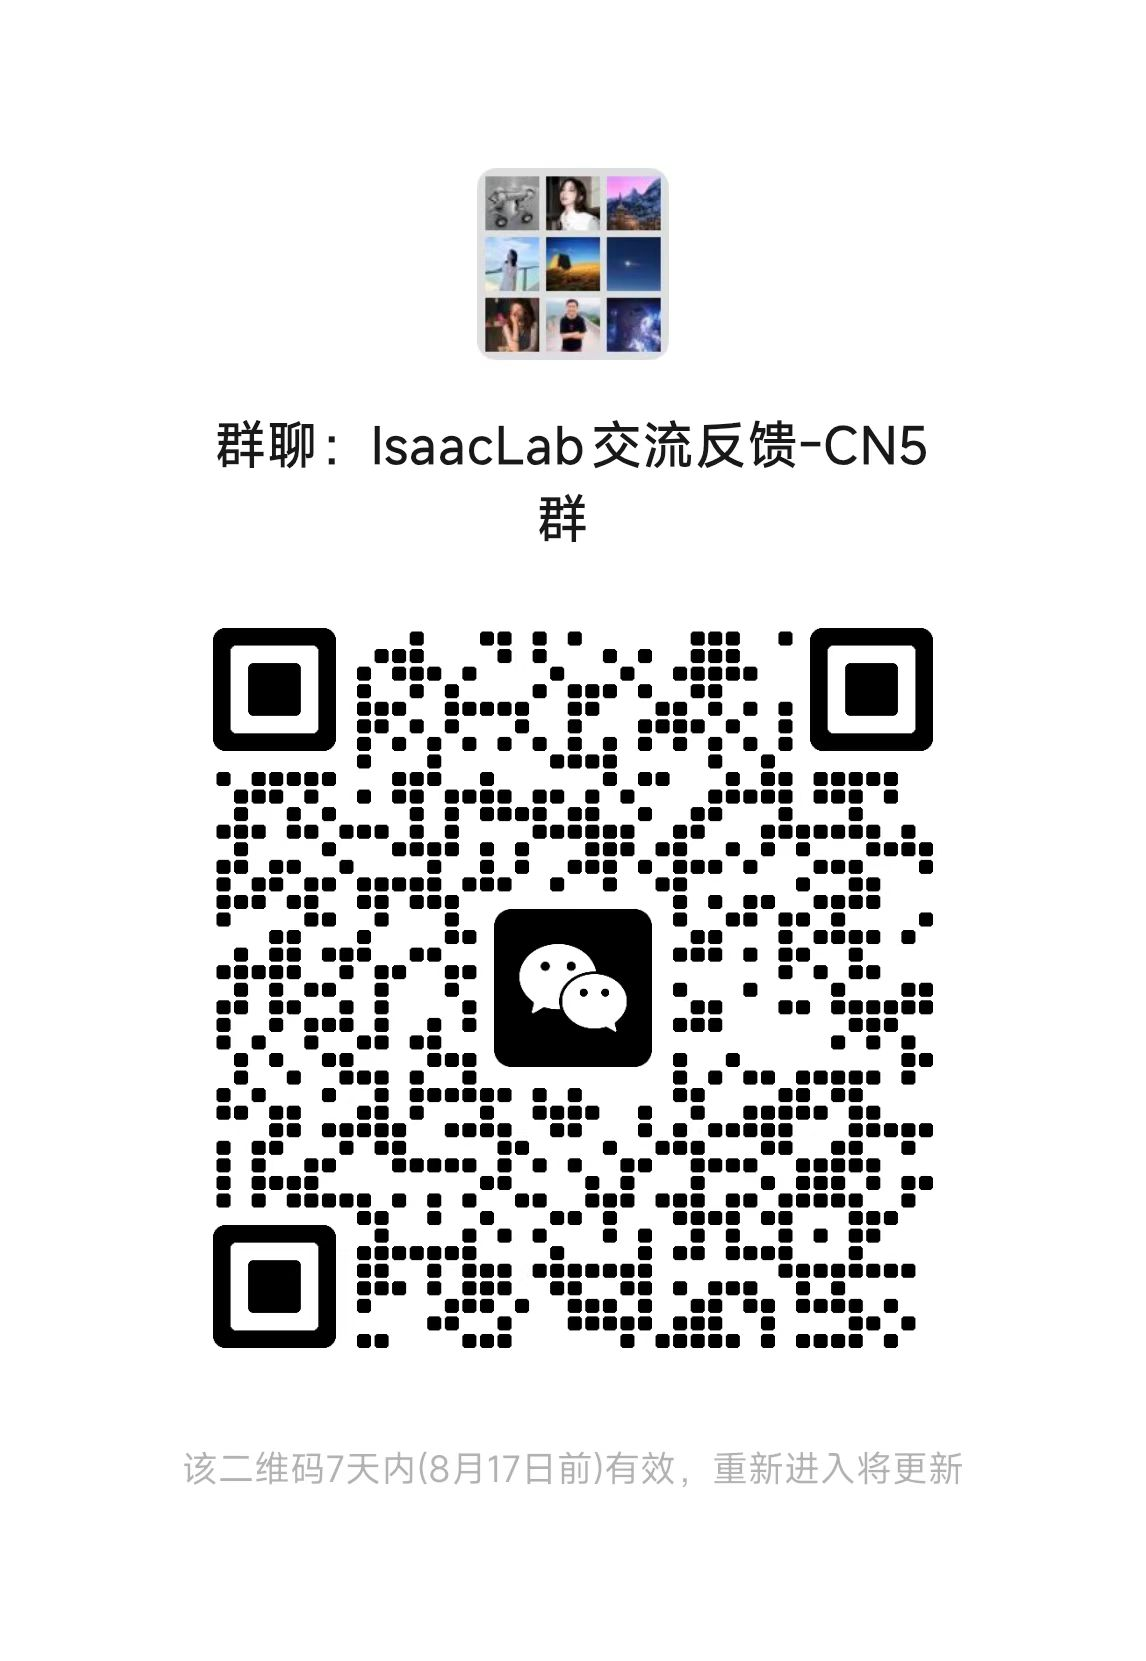
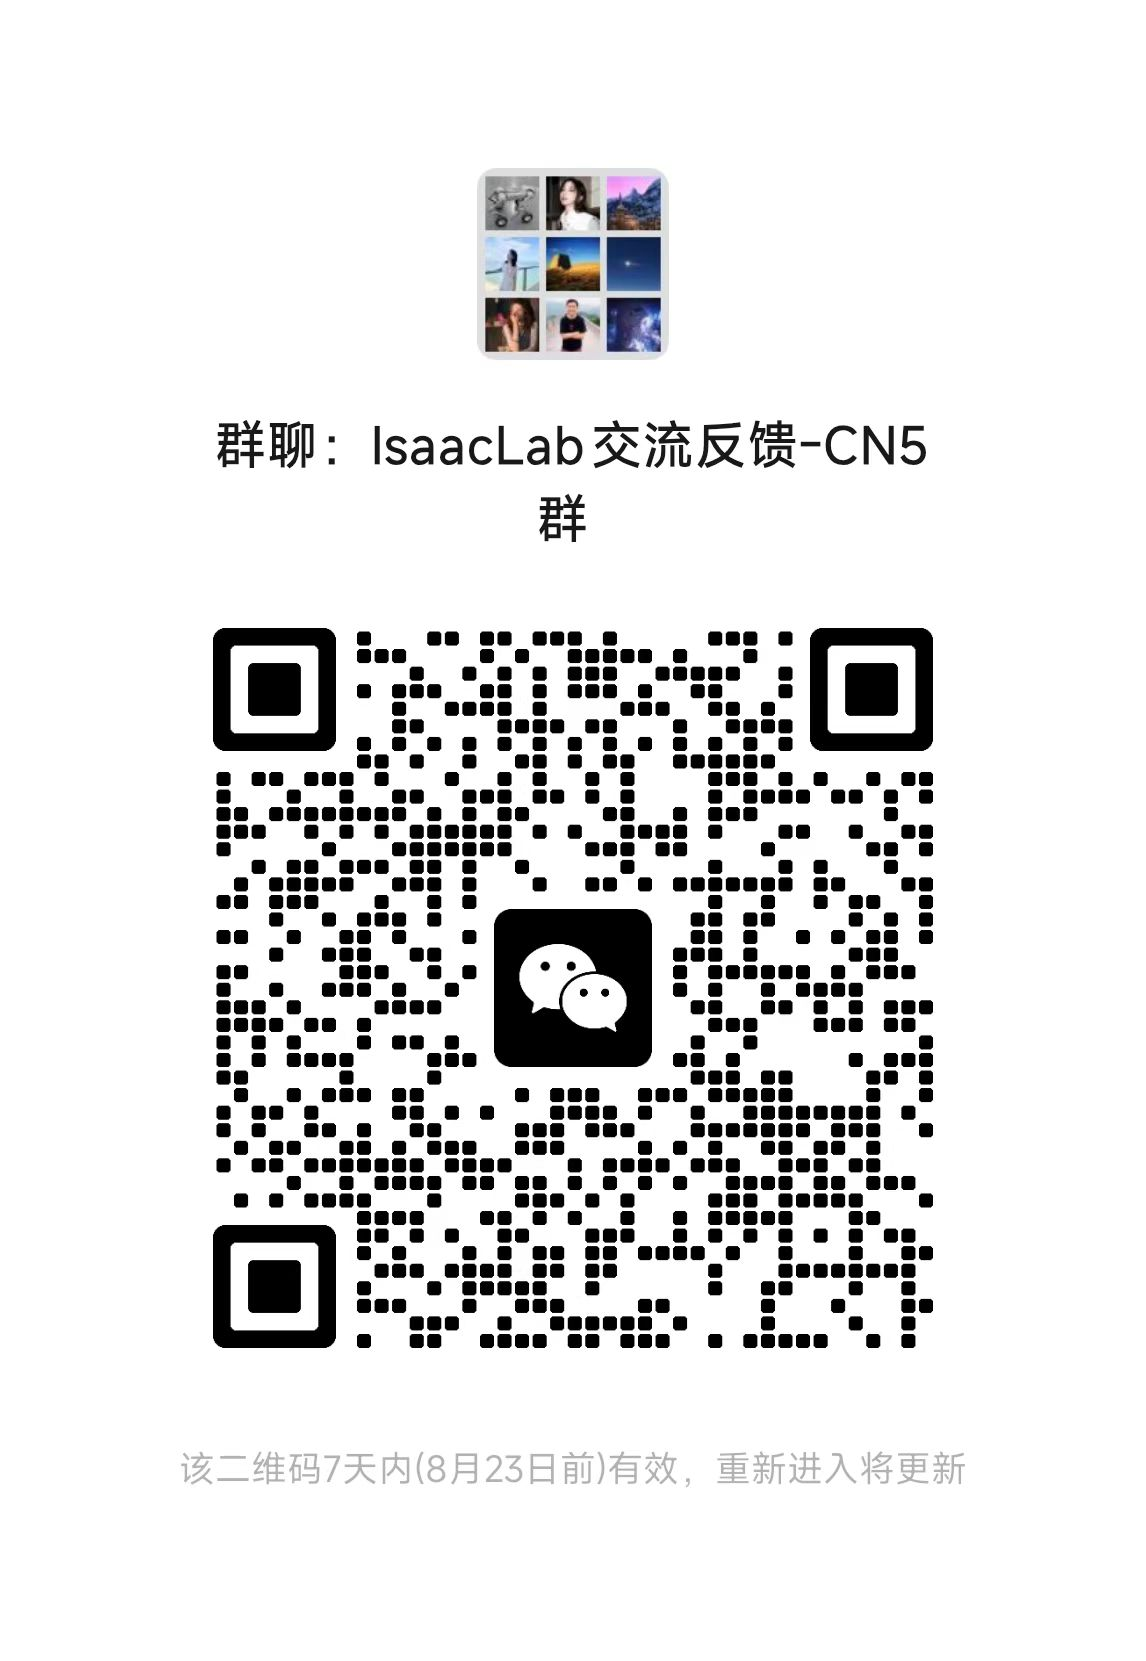
wechat

diff --git a/docs/source/setup/wechat.rst b/docs/source/setup/wechat.rst
@@ -1,7 +1,7 @@
 【非官方】微信交流群
 ===============================
 
-一群、二群、三群、四群已满，下面为五群二维码 (08.17前有效，如过期请等待一两天会更新)
+一群、二群、三群、四群已满，下面为五群二维码 (08.23前有效，如过期请等待一两天会更新)
 
 为保证群聊质量，进群后请按照 **单位-姓名或昵称-研究方向** 修改备注。
 
@@ -10,4 +10,4 @@
    :align: center
    :alt: 微信交流群二维码
 
-更新日期: 2025.08.10
+更新日期: 2025.08.16
